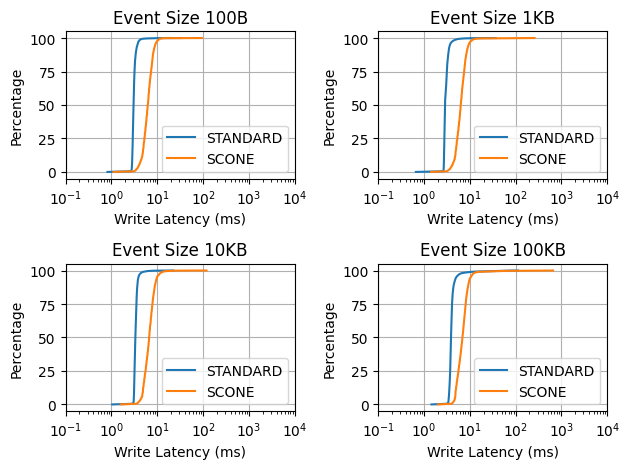
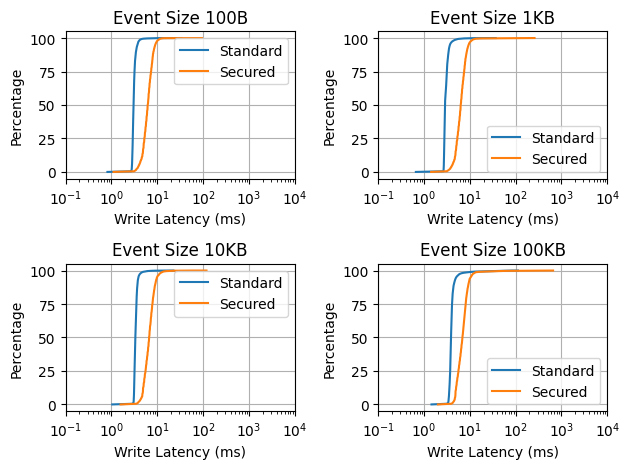
Change labels

diff --git a/plots.py b/plots.py
@@ -44,8 +44,8 @@ def subplot_cdf_percentile(data, test_cases):
             f2 = data_list[a][ data_list[a]['Security'] == 'Secure' ]
             message_size = f1['Message_Size'].iloc[0]
             
-            axs[i][j].plot(f1['Latency'], f1['Percentile'], label='STANDARD')
-            axs[i][j].plot(f2['Latency'], f2['Percentile'], label='SCONE')
+            axs[i][j].plot(f1['Latency'], f1['Percentile'], label='Standard')
+            axs[i][j].plot(f2['Latency'], f2['Percentile'], label='Secured')
             axs[i][j].set_xscale('log')
             axs[i][j].set_xlim(0.1, 10000)
             axs[i][j].set_title('Event Size ' + format_label(message_size))
